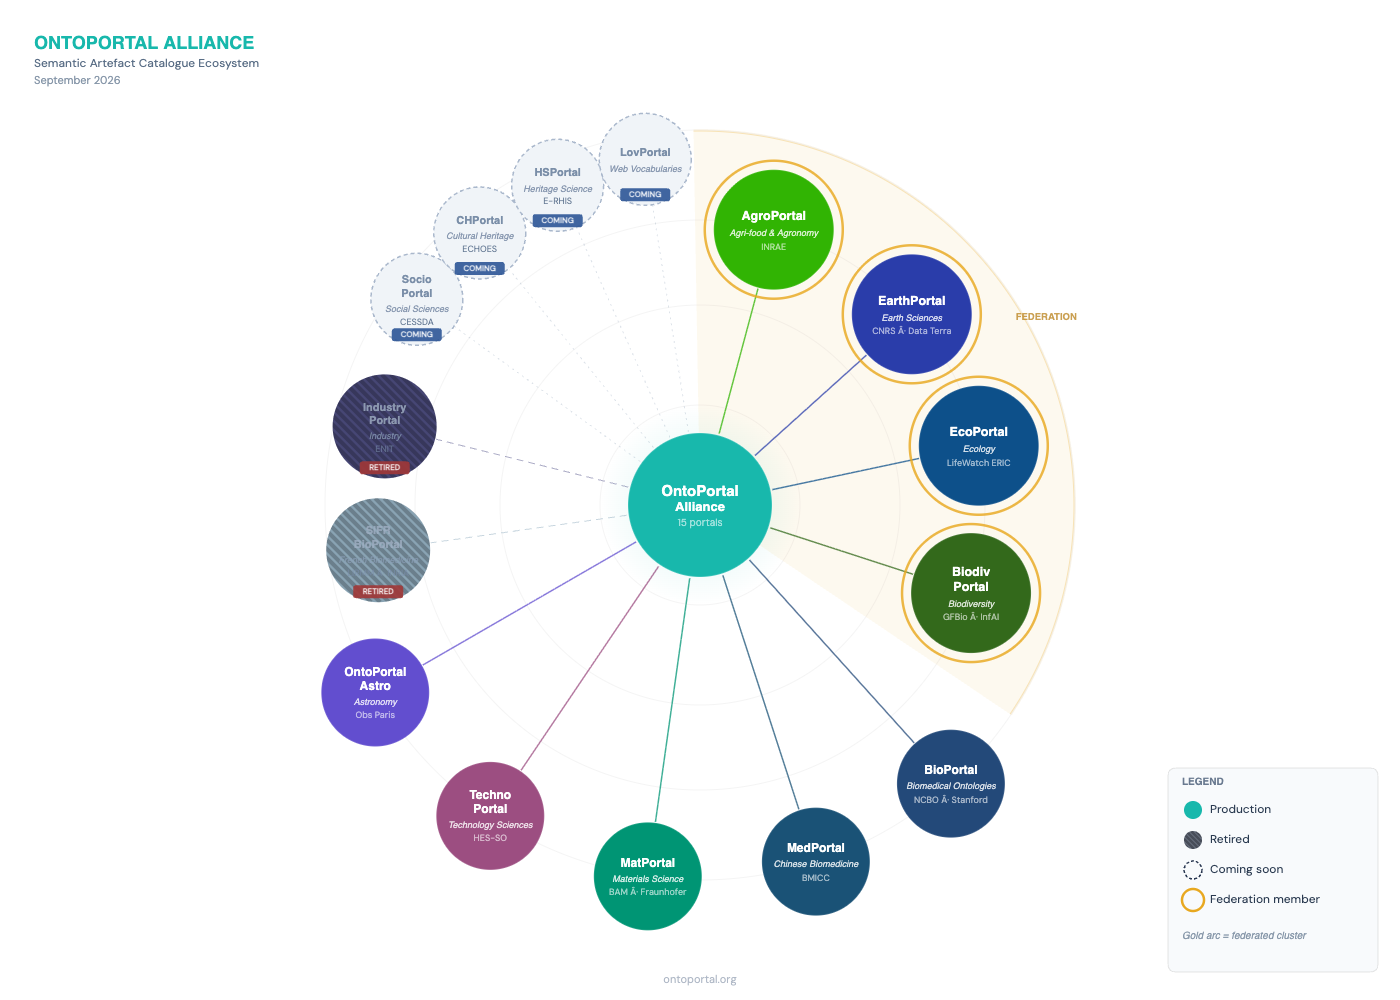
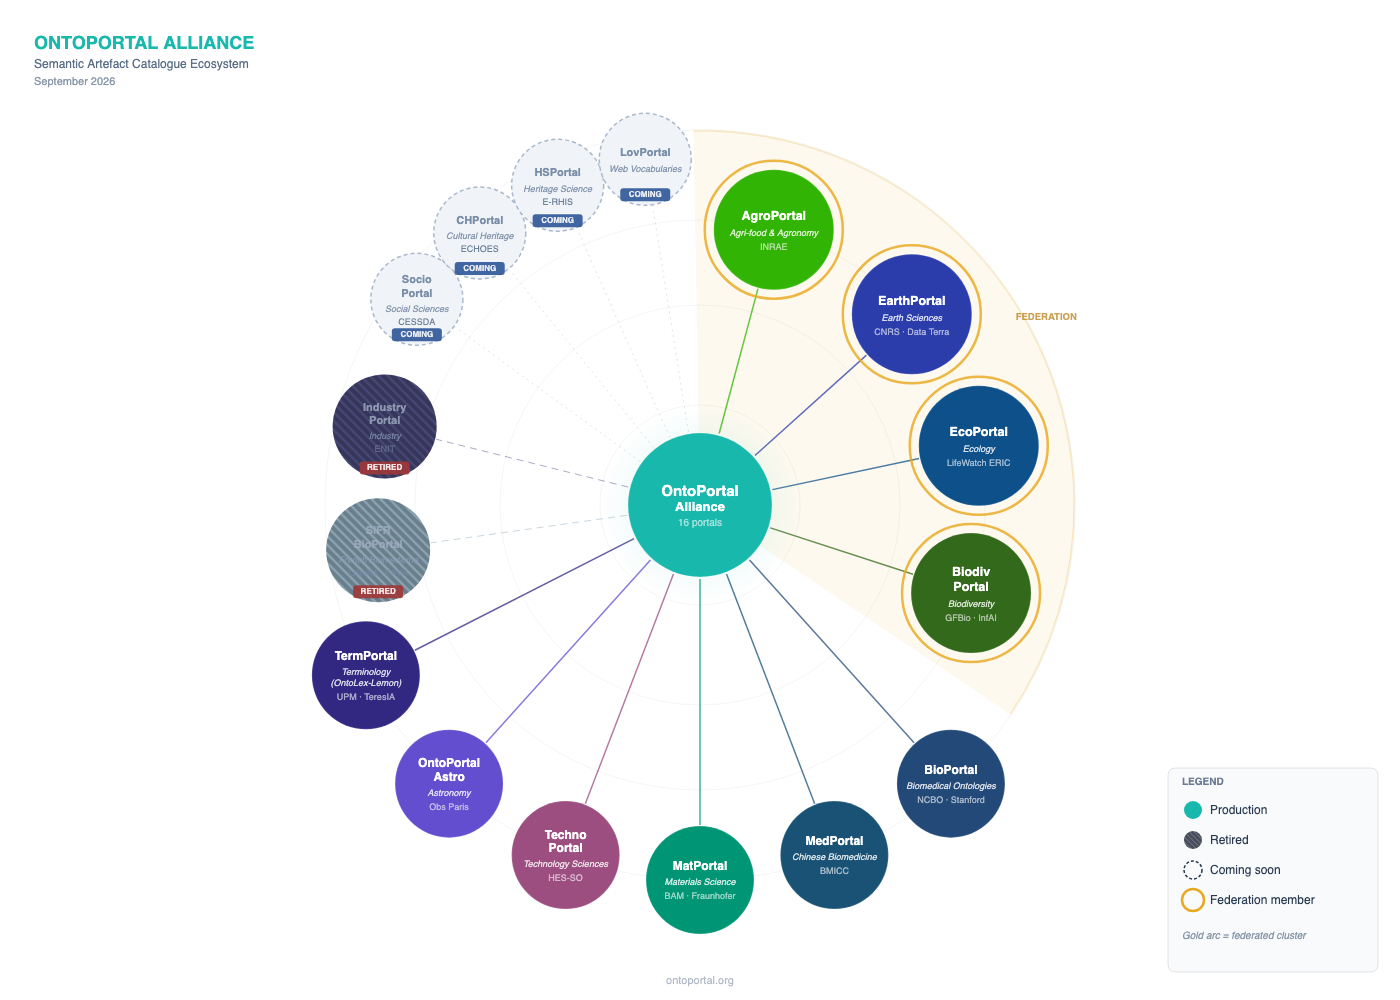
Update alliance map: add TermPortal, fix broken characters
Add <meta charset="utf-8"> to the map source (middle dots were rendered as
"Â·"), add TermPortal to the diagram, and regenerate the light PNG.

diff --git a/images/ontoportal-alliance-map.html b/images/ontoportal-alliance-map.html
@@ -1,3 +1,4 @@
+<meta charset="utf-8">
 <title>OntoPortal Alliance Map</title>
 <link rel="stylesheet" href="https://fonts.googleapis.com/css2?family=Syne:wght@600;700;800&family=DM+Sans:ital,opsz,wght@0,9..40,400;0,9..40,500;1,9..40,400&display=swap">
 <style>
@@ -23,10 +24,11 @@ const PORTALS = [
   {name:"BiodivPortal",    lines:["Biodiv","Portal"],     domain:"Biodiversity",           org:"GFBio · InfAI",    color:"#33691B",status:"production",fed:true, angle:108, r:285,nr:60},
   // Non-federated production — outer ring
   {name:"BioPortal",       lines:["BioPortal"],           domain:"Biomedical Ontologies",  org:"NCBO · Stanford",  color:"#234979",status:"production",fed:false,angle:138, r:375,nr:54},
-  {name:"MedPortal",       lines:["MedPortal"],           domain:"Chinese Biomedicine",    org:"BMICC",            color:"#1a5276",status:"production",fed:false,angle:162, r:375,nr:54},
-  {name:"MatPortal",       lines:["MatPortal"],           domain:"Materials Science",       org:"BAM · Fraunhofer", color:"#009574",status:"production",fed:false,angle:188, r:375,nr:54},
-  {name:"TechnoPortal",    lines:["Techno","Portal"],     domain:"Technology Sciences",    org:"HES-SO",           color:"#9C4E81",status:"production",fed:false,angle:214, r:375,nr:54},
-  {name:"OntoPortal Astro",lines:["OntoPortal","Astro"],  domain:"Astronomy",              org:"Obs Paris",        color:"#624ECF",status:"production",fed:false,angle:240, r:375,nr:54},
+  {name:"MedPortal",       lines:["MedPortal"],           domain:"Chinese Biomedicine",    org:"BMICC",            color:"#1a5276",status:"production",fed:false,angle:159, r:375,nr:54},
+  {name:"MatPortal",       lines:["MatPortal"],           domain:"Materials Science",       org:"BAM · Fraunhofer", color:"#009574",status:"production",fed:false,angle:180, r:375,nr:54},
+  {name:"TechnoPortal",    lines:["Techno","Portal"],     domain:"Technology Sciences",    org:"HES-SO",           color:"#9C4E81",status:"production",fed:false,angle:201, r:375,nr:54},
+  {name:"OntoPortal Astro",lines:["OntoPortal","Astro"],  domain:"Astronomy",              org:"Obs Paris",        color:"#624ECF",status:"production",fed:false,angle:222, r:375,nr:54},
+  {name:"TermPortal",     lines:["TermPortal"],          domain:"Terminology (OntoLex-Lemon)",org:"UPM · TeresIA",  color:"#322882",status:"production",fed:false,angle:243, r:375,nr:54},
   // Retired — mid ring
   {name:"SIFR BioPortal",  lines:["SIFR","BioPortal"],   domain:"French Biomedicine",     org:"LIRMM · INRIA",    color:"#74a9cb",status:"retired",   fed:false,angle:262, r:325,nr:52},
   {name:"IndustryPortal",  lines:["Industry","Portal"],   domain:"Industry",               org:"ENIT",             color:"#4040a0",status:"retired",   fed:false,angle:284, r:325,nr:52},
@@ -127,7 +129,7 @@ function drawHub(ctx){
   ctx.font='700 15px Syne,sans-serif';ctx.fillText('OntoPortal',CX,CY-14);
   ctx.font='700 13px Syne,sans-serif';ctx.fillText('Alliance',CX,CY+2);
   ctx.font='400 10px DM Sans,sans-serif';ctx.fillStyle='rgba(255,255,255,0.6)';
-  ctx.fillText('15 portals',CX,CY+18);
+  ctx.fillText('16 portals',CX,CY+18);
 }
 
 function drawNode(ctx,p,x,y){
